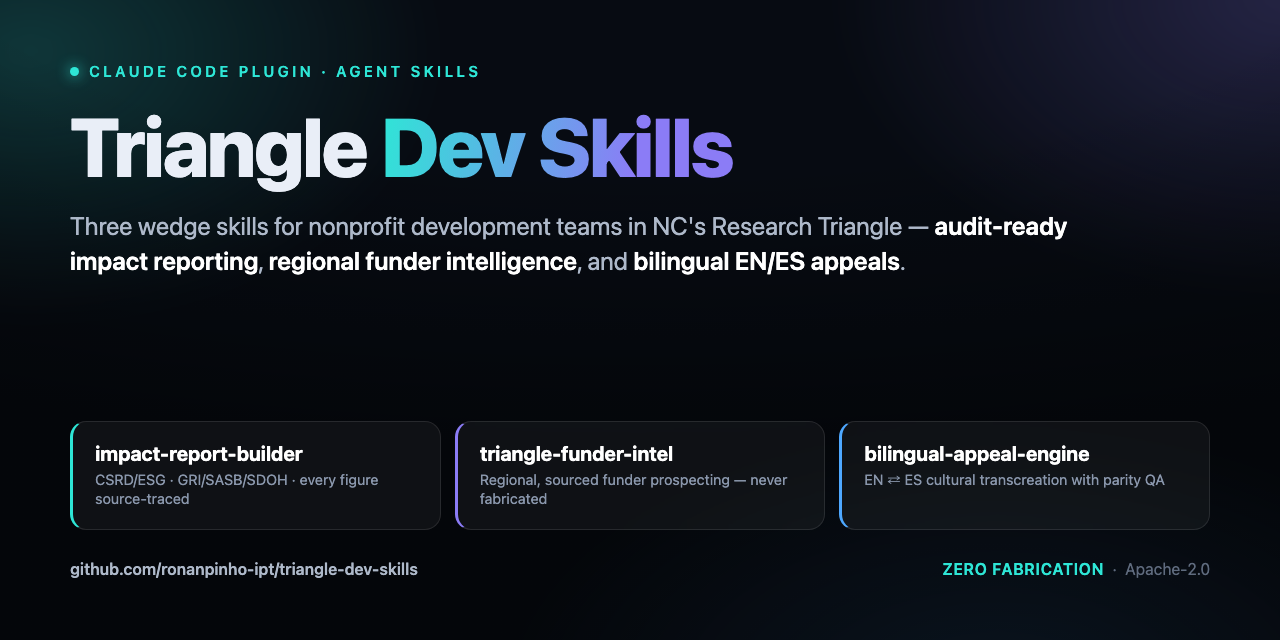
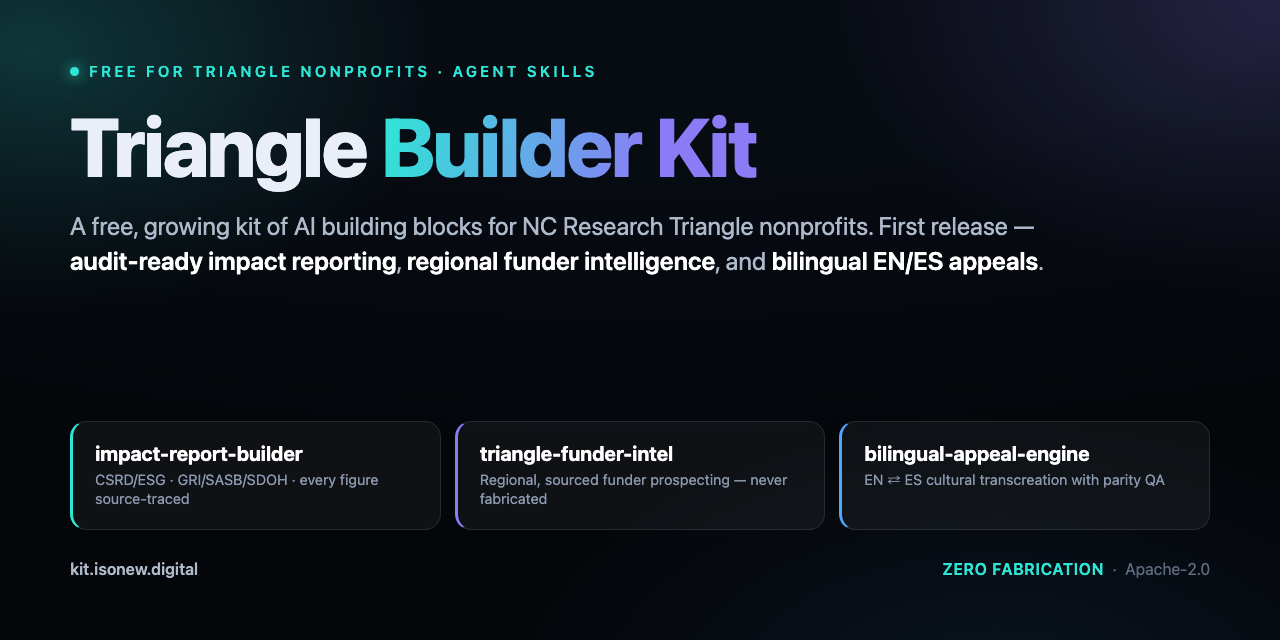
Rebrand landing as Triangle Builder Kit on kit.isonew.digital
- docs/ landing reframed as the Builder Kit hub: the three skills are the
  first pack; squads/agents framed as next (no fabricated assets)
- hub-branded OG image (docs/og-image.png) + absolute og URLs to kit.isonew.digital
- docs/CNAME = kit.isonew.digital for the GitHub Pages custom domain
- repo README stays the Triangle Dev Skills plugin (unchanged)

diff --git a/.github/og-card-kit.html b/.github/og-card-kit.html
@@ -1,0 +1,48 @@
+<!DOCTYPE html><html lang="en"><head><meta charset="UTF-8"><style>
+  *{margin:0;padding:0;box-sizing:border-box}
+  html,body{width:1280px;height:640px;overflow:hidden}
+  body{font-family:-apple-system,BlinkMacSystemFont,"Segoe UI",Inter,Helvetica,Arial,sans-serif;
+    background:#070b12;color:#e9eef7;position:relative}
+  body::before{content:"";position:absolute;inset:-20%;
+    background:
+      radial-gradient(38% 50% at 16% 20%,rgba(46,230,214,.20),transparent 60%),
+      radial-gradient(42% 55% at 86% 14%,rgba(139,124,246,.22),transparent 60%),
+      radial-gradient(46% 50% at 70% 92%,rgba(78,168,255,.16),transparent 60%);
+    filter:blur(14px)}
+  body::after{content:"";position:absolute;inset:0;
+    background:radial-gradient(120% 80% at 50% -10%,transparent 45%,rgba(0,0,0,.45))}
+  .pad{position:relative;z-index:2;padding:62px 70px;height:100%;display:flex;flex-direction:column}
+  .kick{display:inline-flex;align-items:center;gap:10px;font-size:15px;letter-spacing:.22em;
+    text-transform:uppercase;color:#2ee6d6;font-weight:600}
+  .dot{width:9px;height:9px;border-radius:50%;background:#2ee6d6;box-shadow:0 0 14px #2ee6d6}
+  h1{font-size:82px;line-height:.98;font-weight:800;letter-spacing:-.02em;margin:26px 0 0}
+  h1 .g{background:linear-gradient(100deg,#2ee6d6,#8b7cf6 72%);-webkit-background-clip:text;
+    background-clip:text;-webkit-text-fill-color:transparent}
+  .tag{font-size:25px;color:#aeb9ca;margin-top:22px;max-width:1000px;line-height:1.4}
+  .tag b{color:#fff;font-weight:600}
+  .chips{display:flex;gap:14px;margin-top:auto}
+  .chip{flex:1;background:rgba(255,255,255,.045);border:1px solid rgba(255,255,255,.10);
+    border-left:3px solid var(--c);border-radius:16px;padding:20px 22px;backdrop-filter:blur(8px)}
+  .chip .t{font-size:20px;font-weight:700;color:#fff}
+  .chip .d{font-size:14.5px;color:#8a97ac;margin-top:5px;line-height:1.35}
+  .foot{display:flex;justify-content:space-between;align-items:center;margin-top:30px;
+    font-size:16px;color:#5f6b7e}
+  .foot .repo{color:#aeb9ca;font-weight:600}
+  .foot .zf{color:#2ee6d6;font-weight:600;letter-spacing:.04em}
+</style></head><body>
+  <div class="pad">
+    <span class="kick"><span class="dot"></span>Free for Triangle nonprofits · Agent Skills</span>
+    <h1>Triangle <span class="g">Builder Kit</span></h1>
+    <div class="tag">A free, growing kit of AI building blocks for NC Research Triangle nonprofits. First release —
+      <b>audit-ready impact reporting</b>, <b>regional funder intelligence</b>, and <b>bilingual EN/ES appeals</b>.</div>
+    <div class="chips">
+      <div class="chip" style="--c:#2ee6d6"><div class="t">impact-report-builder</div><div class="d">CSRD/ESG · GRI/SASB/SDOH · every figure source-traced</div></div>
+      <div class="chip" style="--c:#8b7cf6"><div class="t">triangle-funder-intel</div><div class="d">Regional, sourced funder prospecting — never fabricated</div></div>
+      <div class="chip" style="--c:#4ea8ff"><div class="t">bilingual-appeal-engine</div><div class="d">EN ⇄ ES cultural transcreation with parity QA</div></div>
+    </div>
+    <div class="foot">
+      <span class="repo">kit.isonew.digital</span>
+      <span><span class="zf">ZERO FABRICATION</span> &nbsp;·&nbsp; Apache-2.0</span>
+    </div>
+  </div>
+</body></html>

diff --git a/docs/index.html b/docs/index.html
@@ -3,11 +3,12 @@
 <head>
 <meta charset="UTF-8">
 <meta name="viewport" content="width=device-width, initial-scale=1.0">
-<title>Triangle Dev Skills — Claude Code plugin for NC nonprofit teams</title>
-<meta name="description" content="Three wedge Agent Skills for nonprofit development teams in NC's Research Triangle: audit-ready CSRD/ESG impact reporting, regional funder intelligence, and bilingual EN/ES appeals.">
-<meta property="og:title" content="Triangle Dev Skills">
-<meta property="og:description" content="Audit-ready impact reporting · regional funder intel · bilingual EN/ES — Claude Code plugin for NC Research Triangle nonprofits.">
-<meta property="og:image" content="https://ronanpinho-ipt.github.io/triangle-dev-skills/og-image.png">
+<title>Triangle Builder Kit — free AI building blocks for NC nonprofit teams</title>
+<meta name="description" content="A free, growing kit of AI building blocks for nonprofit teams in NC's Research Triangle. The first release: three Agent Skills — audit-ready CSRD/ESG impact reporting, regional funder intelligence, and bilingual EN/ES appeals.">
+<meta property="og:title" content="Triangle Builder Kit">
+<meta property="og:description" content="Free AI building blocks for NC Research Triangle nonprofits — starting with three Agent Skills: audit-ready impact reporting, regional funder intel, and bilingual EN/ES appeals.">
+<meta property="og:url" content="https://kit.isonew.digital/">
+<meta property="og:image" content="https://kit.isonew.digital/og-image.png">
 <meta name="twitter:card" content="summary_large_image">
 <style>
   :root{--bg:#070b12;--panel:rgba(255,255,255,.045);--line:rgba(255,255,255,.09);
@@ -57,11 +58,11 @@
 </head>
 <body>
 <div class="wrap">
-  <span class="kick"><span class="dot"></span>Claude Code Plugin · Agent Skills · Apache-2.0</span>
-  <h1>Triangle <span class="g">Dev Skills</span></h1>
-  <p class="lede">Three wedge skills for nonprofit development teams in North Carolina's Research Triangle —
-    <b>audit-ready impact reporting</b>, <b>regional funder intelligence</b>, and <b>bilingual EN/ES appeals</b>.
-    One shared knowledge base. One org brief auto-loaded into every session.</p>
+  <span class="kick"><span class="dot"></span>Free for Triangle nonprofits · Agent Skills · Apache-2.0</span>
+  <h1>Triangle <span class="g">Builder Kit</span></h1>
+  <p class="lede">A free, growing kit of AI building blocks for nonprofit teams in North Carolina's Research Triangle.
+    The first release is a pack of three Agent Skills — <b>audit-ready impact reporting</b>,
+    <b>regional funder intelligence</b>, and <b>bilingual EN/ES appeals</b>. Squads and agents are next.</p>
   <div class="cta">
     <a class="btn p" href="https://github.com/ronanpinho-ipt/triangle-dev-skills">View on GitHub →</a>
     <a class="btn s" href="sample-impact-briefing.html">See a sample briefing</a>
@@ -73,7 +74,7 @@
   </div>
 
   <section>
-    <h2>The three skills</h2>
+    <h2>In the kit today · the Skills pack</h2>
     <div class="cards">
       <div class="card" style="--c:var(--cyan)"><h3>impact-report-builder</h3><p>Normalizes program metrics to GRI/SASB/TCFD/SDOH and drafts an audit-ready partner briefing. Every figure traces to a source row or is flagged in Data Gaps.</p></div>
       <div class="card" style="--c:var(--violet)"><h3>triangle-funder-intel</h3><p>Scores your org against a verified Triangle/NC funder list and researches new prospects live, with sources. Never invents a funder.</p></div>